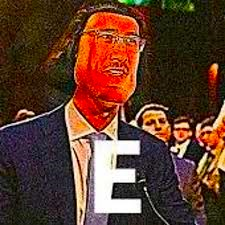
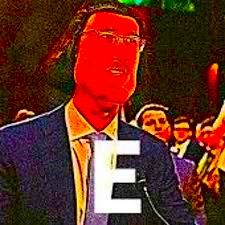
Commit 4
bug-fix, from Commit 3

diff --git a/STEPS.md b/STEPS.md
@@ -5,7 +5,7 @@ Commit 0 -- Update README.md, Add STEPS.md, Add memee.jpg (main)<br>
 Commit 1 -- <br>
 Commit 2 -- <br>
 Commit 3 -- Update STEPS.md, Increase saturation on memee.jpg (bug-fix)<br>
-Commit 4 -- <br>
+Commit 4 -- Update STEPS.md, Increase saturation on memee.jpg (bug-fix)<br>
 Commit 5 -- <br>
 Commit 6 -- <br>
 Commit 7 -- <br>
